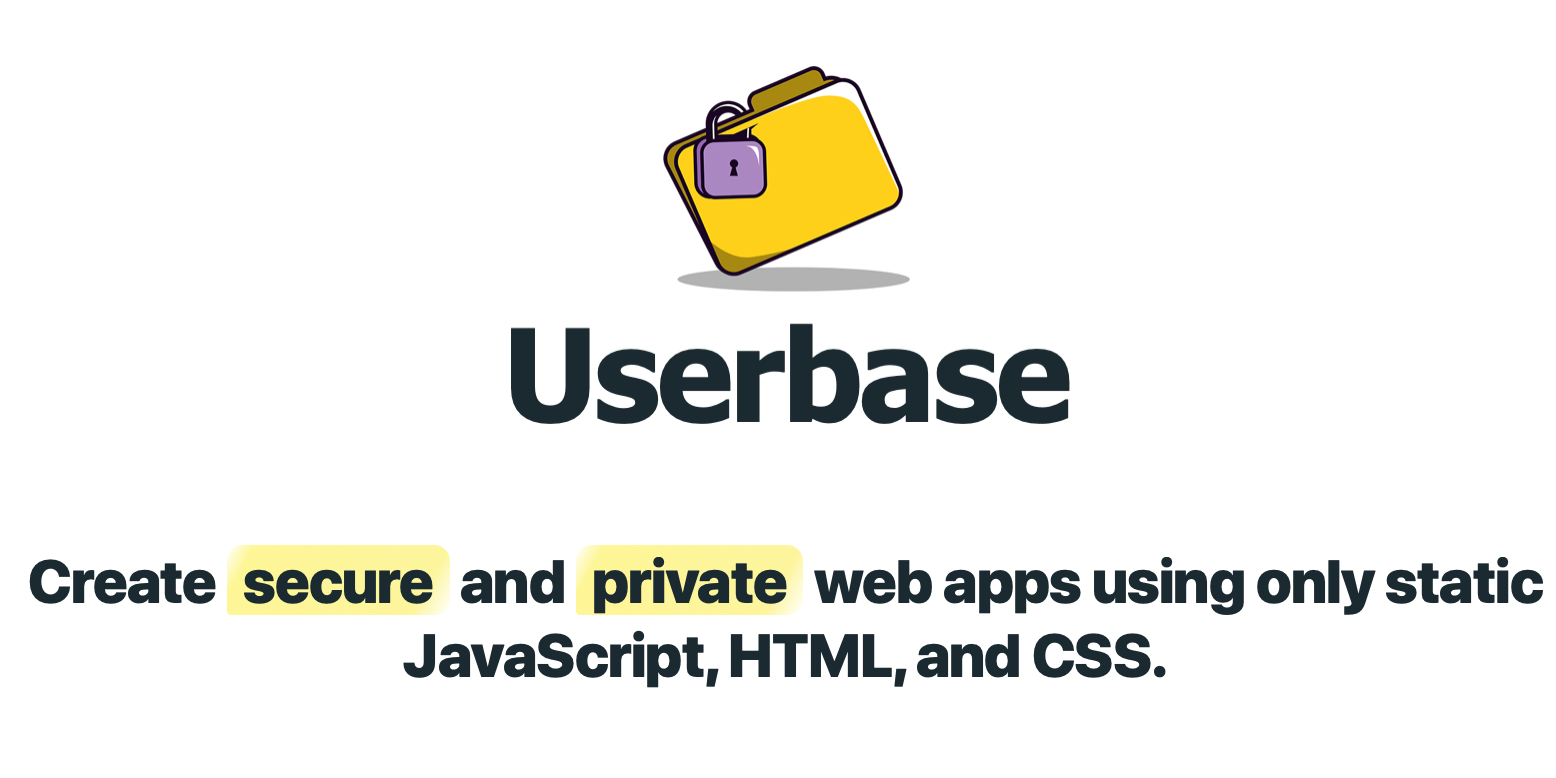
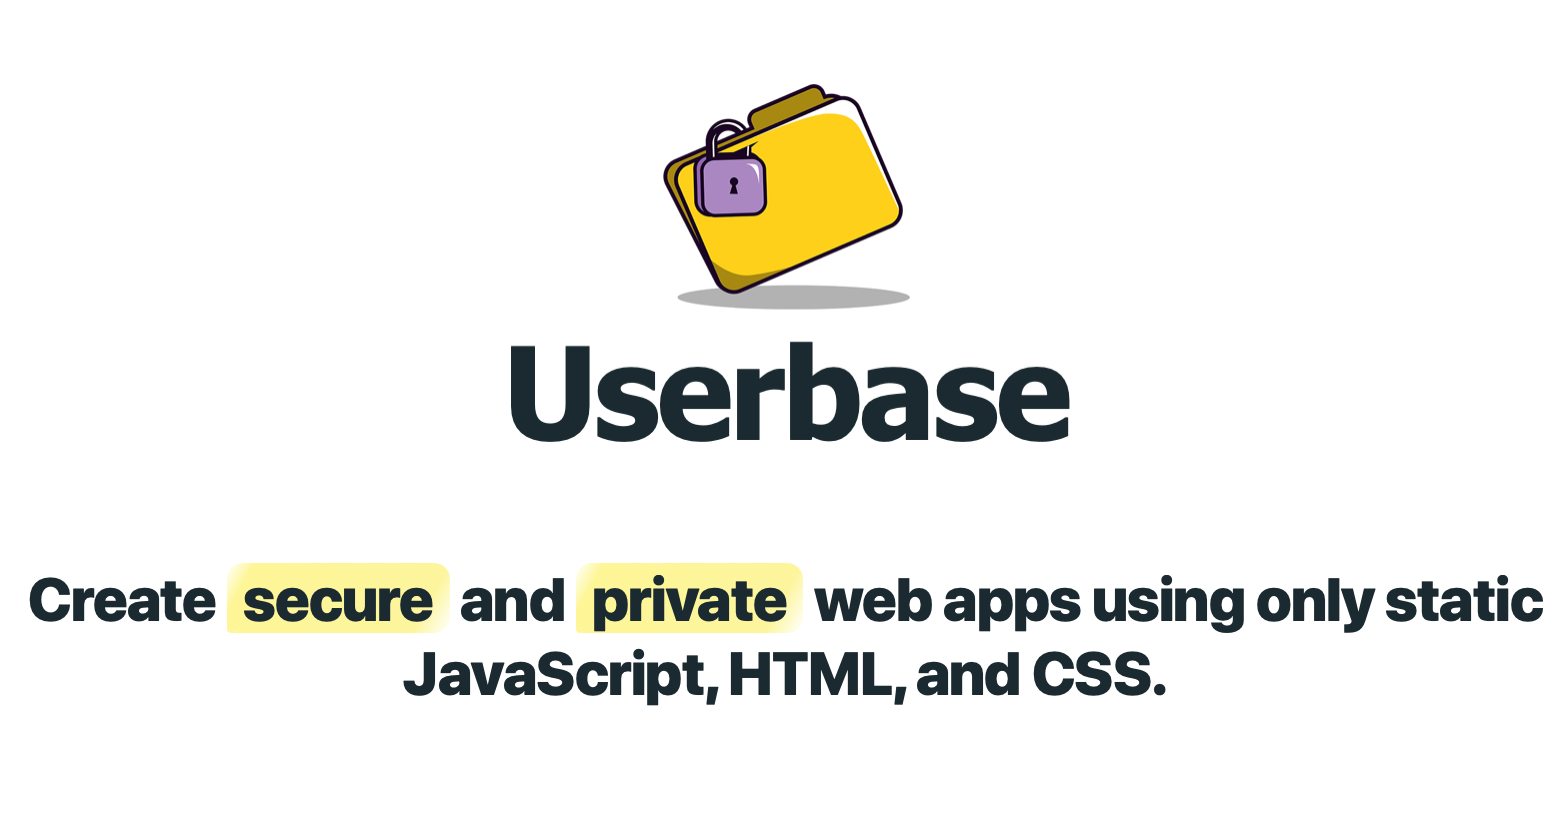
Update social card

diff --git a/webpack.config.js b/webpack.config.js
@@ -92,7 +92,7 @@ module.exports = (env, argv) => {
           'og:type': "website",
           'og:title': "Userbase",
           'og:image': './src/img/social_card.png',
-          'og:description': "Create secure and private web apps using only static JavaScript, HTML, and CSS.",
+          'og:description': "The easiest way to add user accounts & persistence to your static site.",
           'og:site_name': "Userbase",
           'og:locale': "en_US"
         },
@@ -102,7 +102,7 @@ module.exports = (env, argv) => {
           "twitter:creator": "@UserbaseHQ",
           "twitter:url": "https://userbase.com",
           "twitter:title": "Userbase",
-          "twitter:description": "Create secure and private web apps using only static JavaScript, HTML, and CSS.",
+          "twitter:description": "The easiest way to add user accounts & persistence to your static site.",
           "twitter:image": './src/img/social_card.png'
         },
       }),
